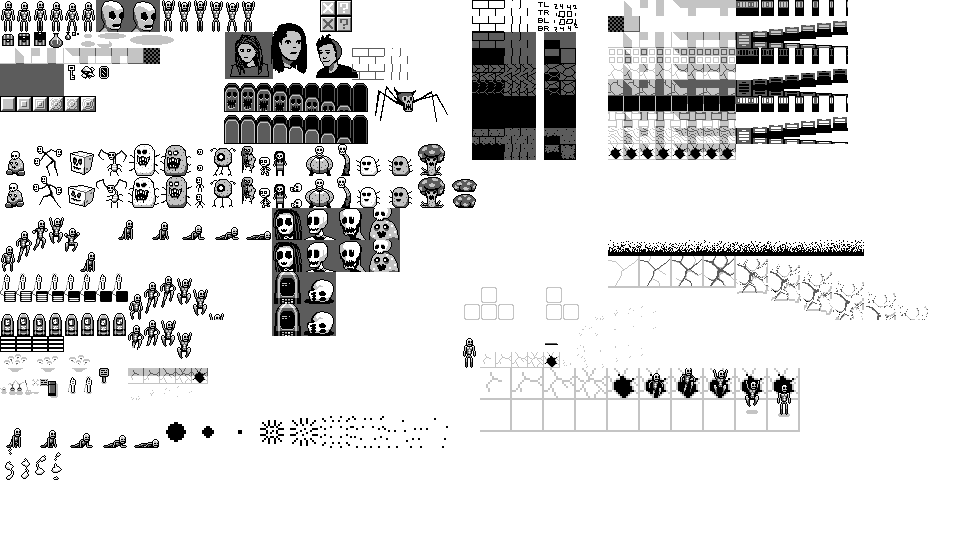
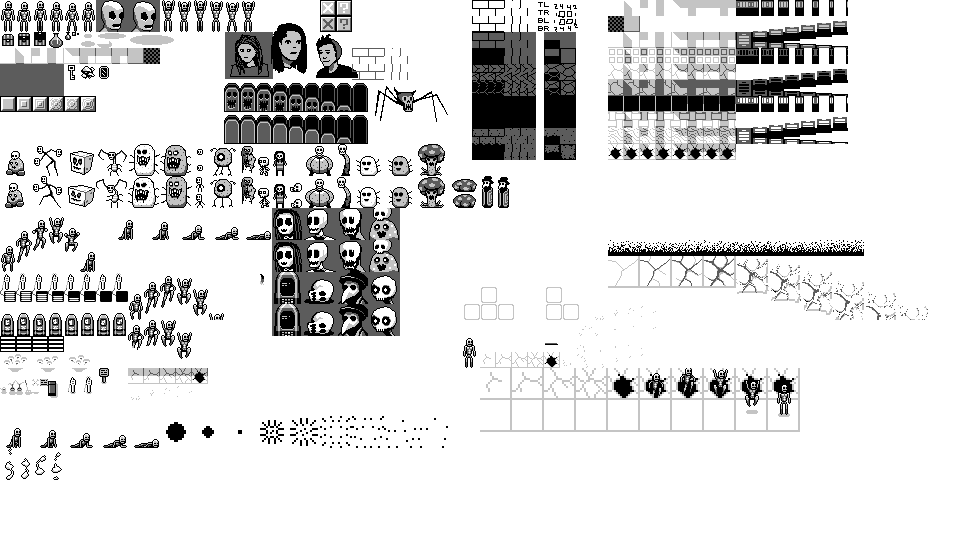
new sprites

diff --git a/src/worldgen/zones.py b/src/worldgen/zones.py
@@ -482,7 +482,7 @@ class DesolateCaveZone(Zone):
                 doors = w.entities_in_circle(switch_pos, 800, onscreen=False,
                                              cond=lambda ent: isinstance(ent, entities.LockedDoorEntity))
                 nearest_door = doors[0]
-                action = lambda _e, _w: nearest_door.do_unlock()
+                action = lambda _e, _w: nearest_door.do_open()
                 listener = events.EventListener(action, events.EventType.DIALOG_EXIT,
                                                 lambda event: event.get_uid() == unlock_dialog.get_uid(),
                                                 single_use=True)

diff --git a/src/game/spriteref.py b/src/game/spriteref.py
@@ -221,9 +221,13 @@ beanskull_all = [make(336, 144 + i*32, 16, 32) for i in range(0, 2)]
 beanskull_faces = [make(336, 208 + i*32, 32, 32) for i in range(0, 2)]
 
 glorple_faces = [make(368, 208 + i*32, 32, 32) for i in range(0, 2)]
+skullboy_faces = [make(268, 272 + i*32, 32, 32) for i in range(0, 2)]
 
 spinny_cubes = [make(0 + i*16, 352, 16, 16) for i in range(0, 6)]
 spinny_cubes_fat = [make(0 + i*16, 368, 16, 16) for i in range(0, 6)]
+
+doctor_all = [make(480 + i * 16, 176, 16, 32) for i in range(0, 2)]
+doctor_faces = [make(336, 272 + i * 32, 32, 32) for i in range(0, 2)]
 
 potion_small = make(64, 32, 8, 8)
 potion_big = make(48, 32, 16, 16)

diff --git a/README.md b/README.md
@@ -3,6 +3,8 @@ babby's first ~~roguelike~~ action rpg
 
 here are the five most recent gifs committed:
 
+![89_doctor.gif](gifs/89_doctor.gif?raw=true "89_doctor")
+
 ![88_poppin_out.gif](gifs/88_poppin_out.gif?raw=true "88_poppin_out")
 
 ![88_opening_cutscene.gif](gifs/88_opening_cutscene.gif?raw=true "88_opening_cutscene")
@@ -10,6 +12,4 @@ here are the five most recent gifs committed:
 ![87_tentacles.gif](gifs/87_tentacles.gif?raw=true "87_tentacles")
 
 ![86_fungoi.gif](gifs/86_fungoi.gif?raw=true "86_fungoi")
-
-![85_zone_selector.gif](gifs/85_zone_selector.gif?raw=true "85_zone_selector")
 
